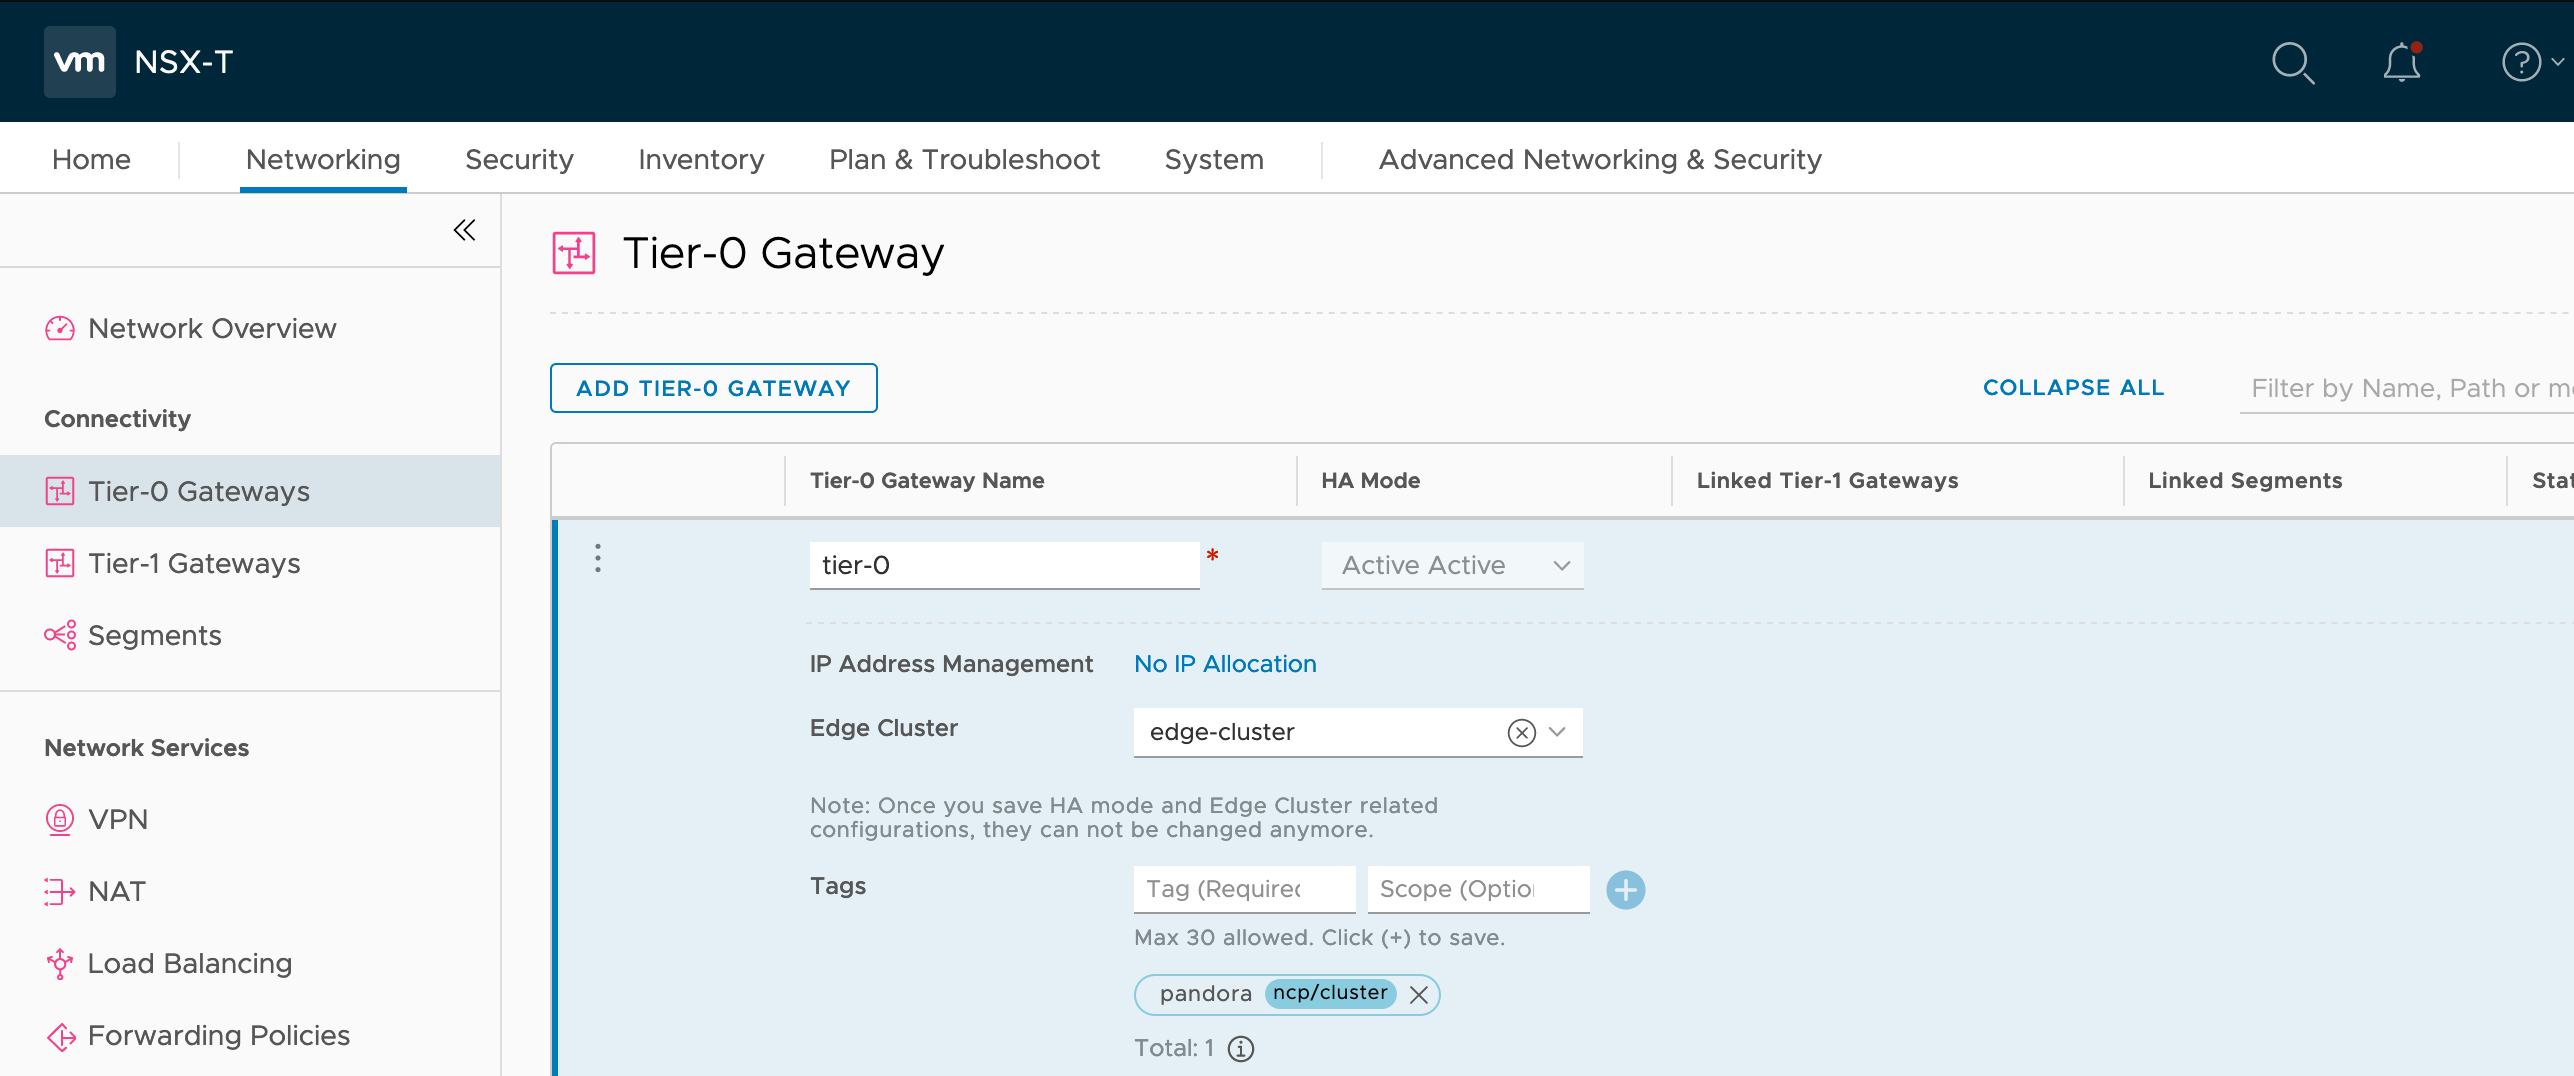
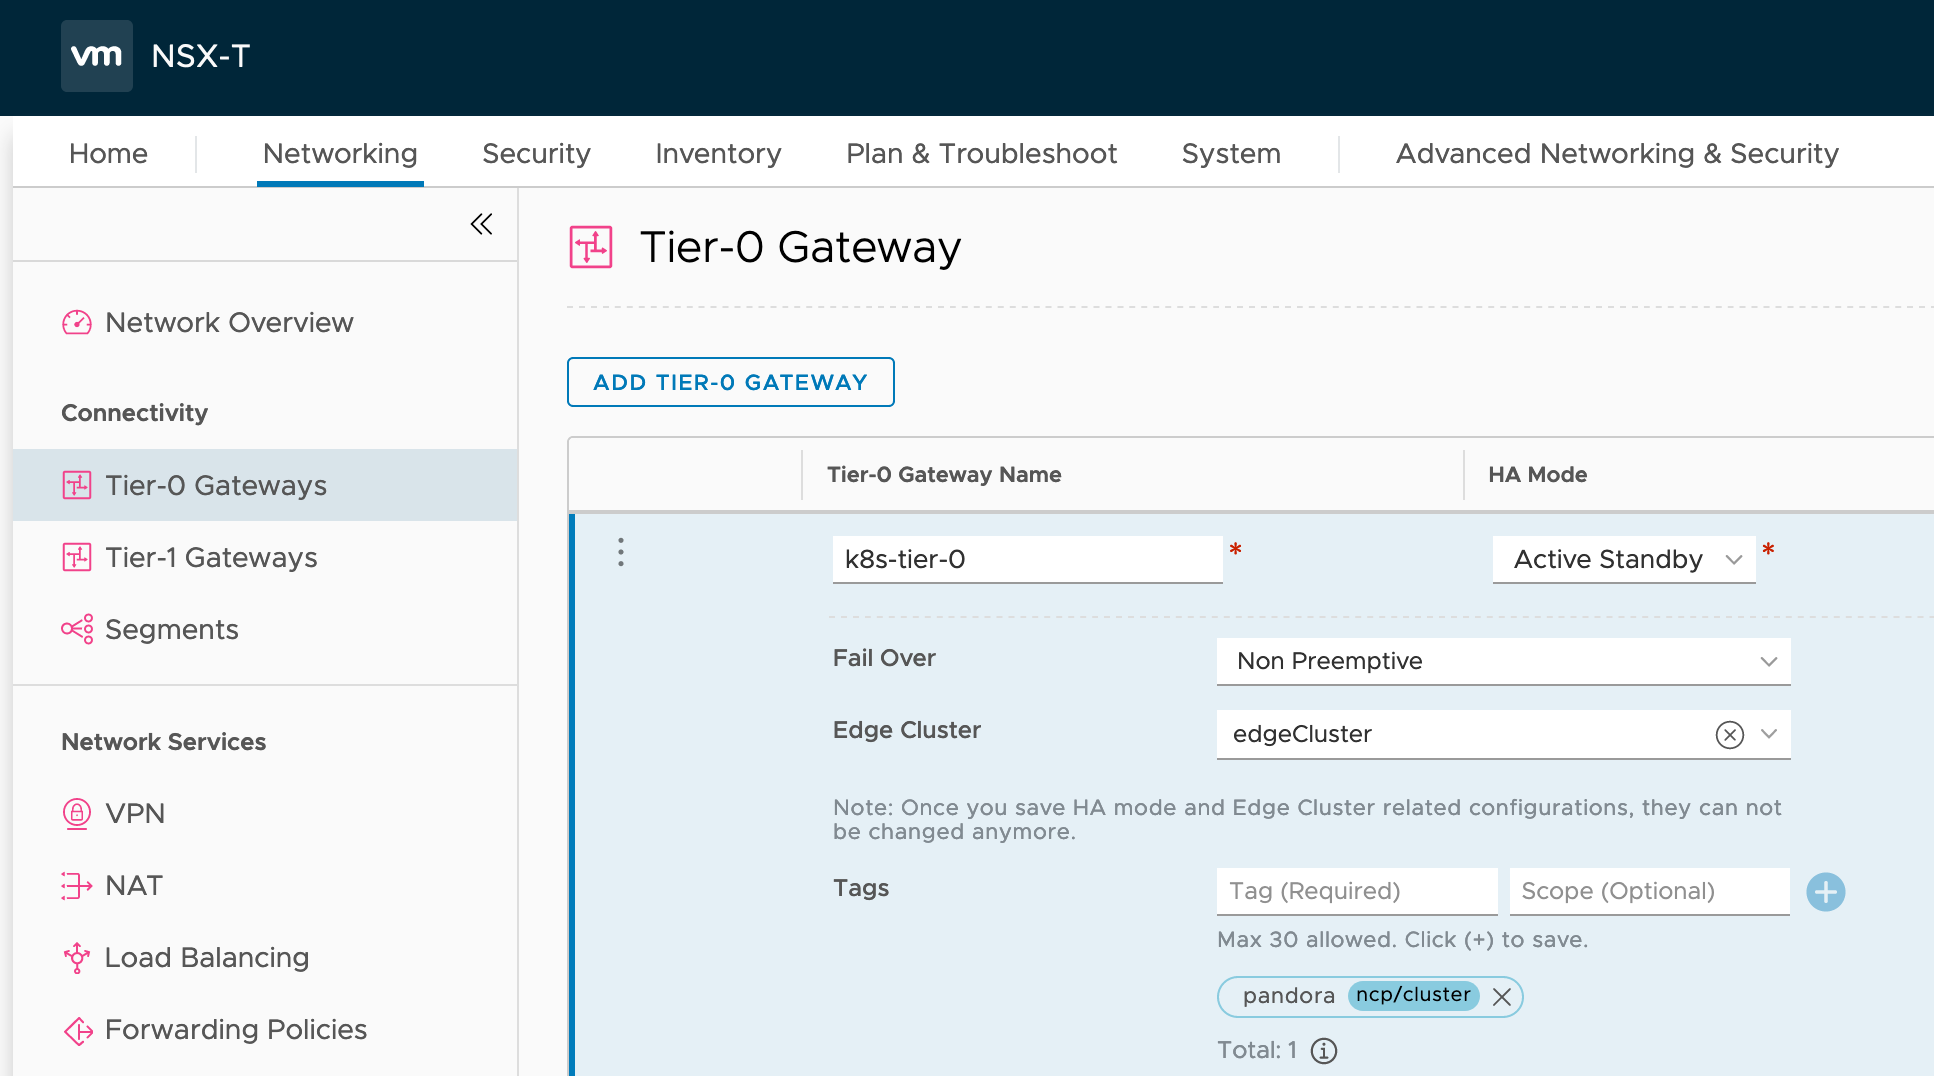
minor text fixes

diff --git a/_posts/2019-12-09-k8s-nsxt.md b/_posts/2019-12-09-k8s-nsxt.md
@@ -54,13 +54,17 @@ Prior to the 2.5 release all NSX objects which the NCP interacted with had to be
 
 Another change I am interested in exploring is the simplified installation. In the past, an admin had to login to every k8s node and perform multiple steps to bootstrap it. She had to install the NSX CNI Plug-in and OpenVSwitch, to create OVS bridge and to add one vNic to the bridge. The 2.5 release introduces a second DaemonSet nsx-ncp-bootstrap Pod this now handles the deployment and lifecycle management of these components and we don’t need to login to every node. This should make it easier to scale out a cluster with additional nodes.
 
-## Base Homelab Environment
+## Lab Hardware Configuration
 
-To explore Kubernetes networking and the NCP I am using my homelab. My homelab has a very simple physical network namely a single subnet (192.168.1.0/24) which routes northbound to internet. Connected to the physical network are three Intel NUCs each has two 1G NIC an onboard and an additional USB3.
+To explore Kubernetes networking and the NCP I am using my homelab. My homelab has a very simple physical network namely a single subnet (192.168.1.0/24) with DHCP enabled and which routes northbound to internet. Connected to the physical network are three Intel NUCs each has two 1G NIC an onboard and an additional USB3.
 
-The hosts run vSphere 6.7 Update 3 and have the onboard NIC configure as a vSphere Standard Switch hosting Management and vSAN VMkernels and the USB3 NIC is unused. They are formed into a VSAN cluster and have an Active Directory VM which also acts as DNS server and NTP source and a vCenter appliance running in the cluster.
+## Lab vSphere Configuration
 
-For this research I added a NSX-T 2.5.1 Manager and Controller and configured all hosts as Transport Nodes in a Transport Zone named overlayTransport. I then deployed a single medium sized Edge, added this to overlayTransport and created a TZ named vlanTransportZone for edge uplink. I added a Tier-0 Logical Router with High-Availability mode Active-Passive, configured it with interface 192.168.1.17 and added a static route to physical router directing 172.16.0.0/16 which directs to the Tier-0.
+The hosts run vSphere 6.7 Update 3 and have the onboard NIC configure as a vSphere Standard Switch hosting Management and vSAN VMkernels and the USB3 NIC is unused. The hosts are added to a vCenter appliance (192.168.1.13) and formed into a VSAN enabled cluster. The cluster also hosts a Windows 2019 Server VM running Active Directory (192.168.1.10) this also acts as DNS server and NTP source for lab.
+
+## Lab NSX-T Configuration
+
+An extra-small NSX Manager appliance (192.168.1.14) is deployed.  All esxi hosts are configured as Transport Nodes using vusb0 interface to Transport Zone named 'overlayTransport'. A medium sized NSX Edge called 'nsxEdge' is deployed which is a member of 'overlayTransport' and 'vlanTransport' Transport Zones. A Edge Cluster named 'edgeCluster' and add 'nsxEdge' is a member.
 
 ## Kubernetes IP Address Space
 
@@ -88,9 +92,11 @@ An NSX-T instance can support multiple Kubernetes clusters to ensure correct obj
 
 For this lab environment I am configuring with cluster name 'pandora'.
 
-### NSX Tier-0 and Overlay Transport Zone
+## Deploy and Configure Tier-0 
 
-The Tier-0 Logical Router and Overlay Transport Zone reqiore a single tag applied like this:
+The NCP deploys application centric network topology at the top of that topology is a Tier-0 router which provides uplink to the physical network. 
+
+Use the Policy UI to deploy a Tier-0 Logical Router with High-Availability mode Active-Passive. In order the NCP knows the correct Tier-0 Logical Router a tag like this needs to be applied:
 
 | Tag            | Scope         |
 | -------------- |:-------------:|
@@ -98,7 +104,15 @@ The Tier-0 Logical Router and Overlay Transport Zone reqiore a single tag applie
 
 <img src="/images/k8s-nsxt-tier0.png">
 
-<img src="/images/k8s-nsxt-overlay.png">
+To communicate with the physical network the Tier-0 requires an uplink IP address.  In order to add uplink IP address we require creating a network segment backed by VLAN.
+
+<img src="/images/k8s-nsxt-physical-segment.png">
+
+We can now configure an interface on the Tier-0 with IP address 192.168.1.17.
+
+<img src="/images/k8s-nsxt-tier0-uplink.png">
+
+To enable ExternalIP routing from physical network add a static route to physical router directing 172.16.0.0/16 to 192.168.1.17.
 
 ### NSX IP Block for internal ClusterIP
 
@@ -115,7 +129,7 @@ The NCP requires an IP Block for issuing internal ClusterIP. Create the 10.0.0.0
 
 ## NSX IP Pool for ExternalIP
 
-The NCP requires an IP Pool for issuing internal ExternalIP. First create an IP Block named k8s-1-external with CIDR 172.16.0.0/16. This IP Block isn't accessed directly by NCP so does not need any tags.
+The NCP requires an IP Pool for issuing internal ExternalIP. First create an IP Block named 'k8s-1-external' with CIDR 172.16.0.0/16. This IP Block is not accessed directly by NCP so does not need any tags.
 
 <img src="/images/k8s-nsxt-external-block.png">
 
@@ -130,6 +144,8 @@ Once the IP Block is in place create an IP Pool named 'k8s-1-loadbalancer' which
 ## Node Logical Switch
 
 Network connectivity to the containers running in Kubernetes is provided by a NSX-T logical switch segment which is often referred to as the node logical switch. For this create a new segment called 'node-logical-switch' within the 'overlayTransportZone' connected to no gateway.
+
+<img src="/images/k8s-nsxt-node-logical-switch.png">
 
 ## Kubernetes Master VM
 
